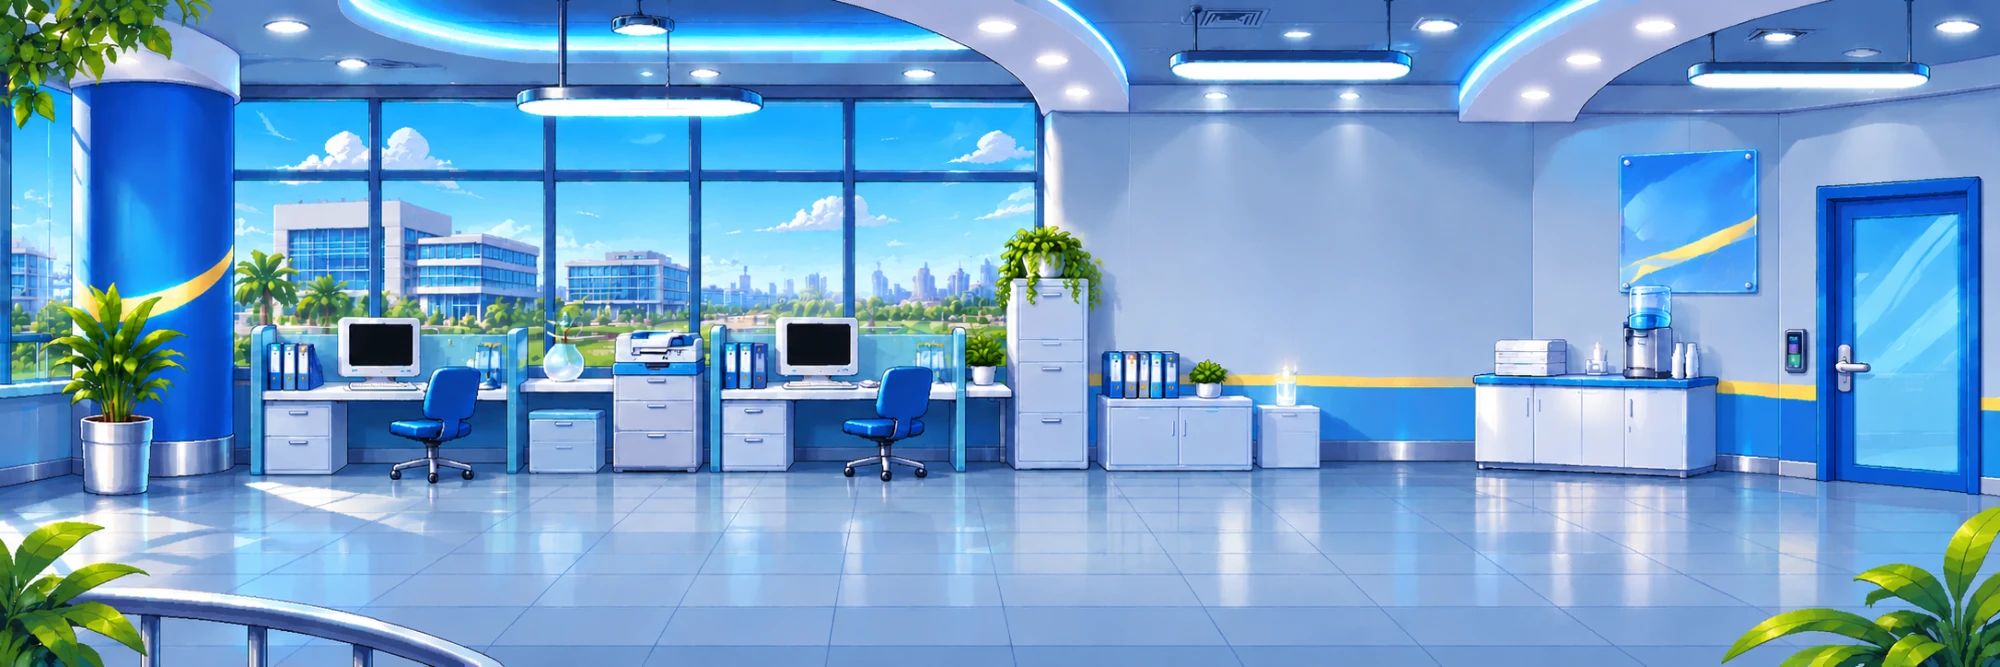
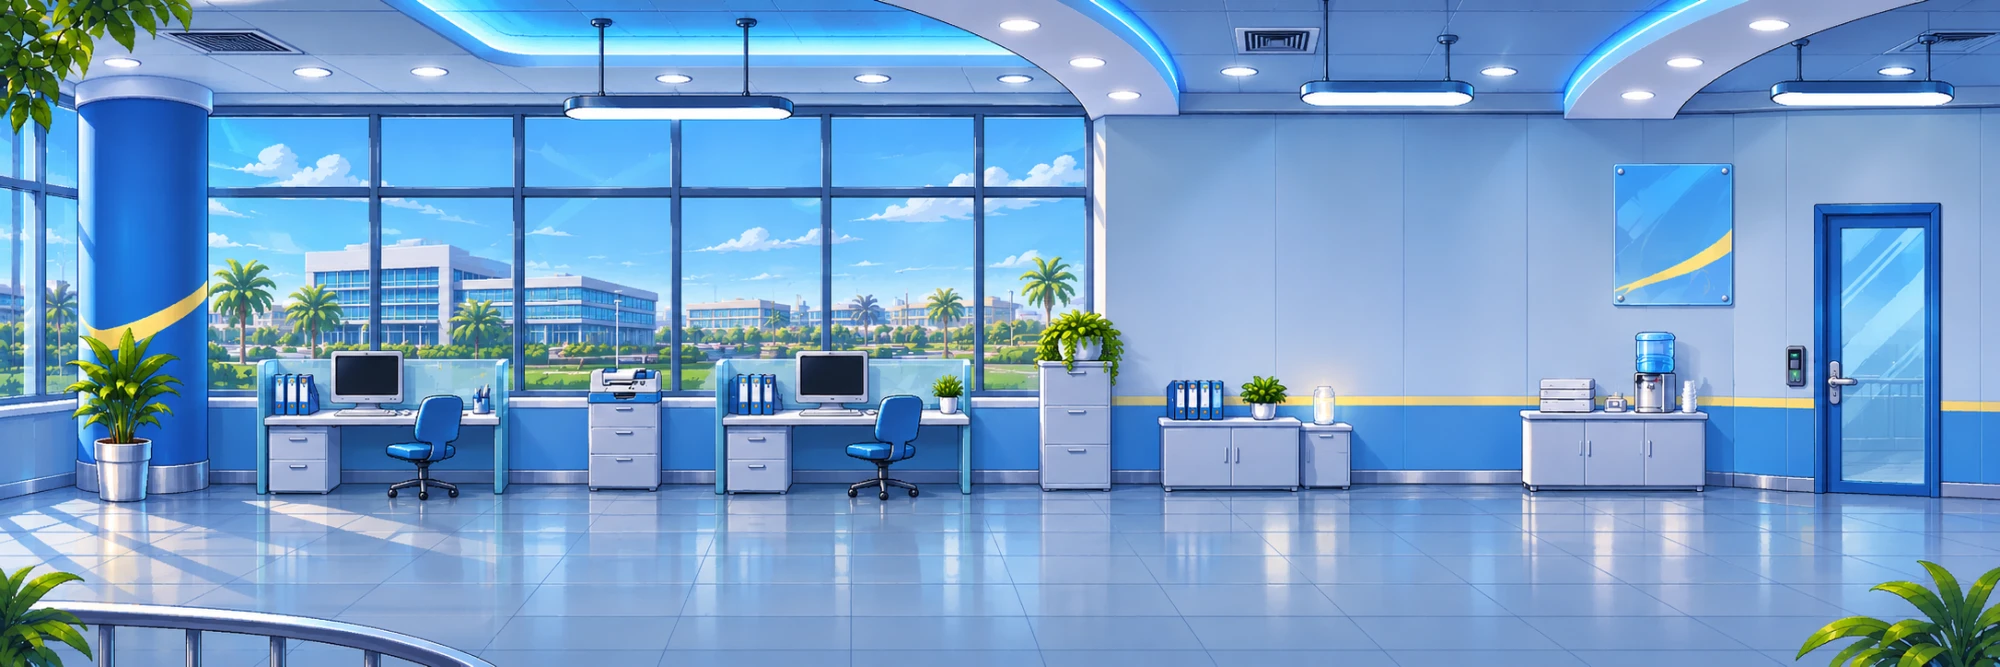
R01 Quality Department: new art at real furniture scale (1560 wide), floor line Y 366, new door reference

diff --git a/src/level.js b/src/level.js
@@ -20,8 +20,8 @@
 //   light: { rim, rimAlpha, rimPx, lightX, lightY, wash, washAlpha, feet } = how Zee and the enemies are lit in this room
 //   (rim / wash are [r,g,b]); the game eases from one room's light to the next (see setLight in assets.js).
 //   doorRight is the door to the NEXT room: while it is locked the player cannot pass it; no door (or unlocked) = open.
-import { CONFIG } from './config.js?v=202611220053';
-import { VERSION } from './assets.js?v=202611220053';
+import { CONFIG } from './config.js?v=202611220059';
+import { VERSION } from './assets.js?v=202611220059';
 
 const C = CONFIG.camera, F = CONFIG.floor;
 export const LAYER_H = 507;                       // layer height in pixels (the view shows 506.25)
@@ -203,17 +203,21 @@ export function tempRoom(id, name, width) {
 }
 
 // R01 Quality Department: final art, a single 2000 x 667 px image (assets/levels/r01_quality_department.webp).
-// It is placed at 0.9 world units per image pixel, so it is exactly 1800 units wide. y puts the image's bottom edge on the
-// bottom of the view (Y 506.25), which puts its floor / wall line (image y ~476) at about Y 334, the top of the feet band.
-// The image has the window view, furniture and the door painted in, so for now it is one layer (no parallax in the windows).
-const R01_SCALE = 0.9, R01_H = 667;
+// SCALE: 0.78 world units per image pixel, so furniture is at real size next to Zee (132 units = 169 image px): desk ~ 60 units,
+// chair back ~ 78, filing cabinet ~ 100. The room is 2000 * 0.78 = 1560 units wide. y puts the image's bottom edge on the bottom of
+// the view (Y 506.25), which crops the top ~18 px (the very top of the ceiling) and puts the wall / floor line (image y ~484)
+// at Y ~364 and the furniture feet (image y ~491) at Y ~369, which is where CONFIG.floor.top (366) comes from.
+// The window view, furniture and the door are painted into this one image, so for now it is one layer (no parallax in the windows).
+// THE DOOR (painted in): frame x 1815-1938, y 204-496 in the image = world x 1416-1512 (96 wide), Y 145-373 (228 tall, 1.7x Zee).
+const R01_SCALE = 0.78, R01_W = 2000, R01_H = 667;
 export function qualityDepartment() {
   return {
-    id: 'R01', name: 'Quality Department', width: 1800, doorRight: { locked: true },
+    id: 'R01', name: 'Quality Department', width: Math.round(R01_W * R01_SCALE), doorRight: { locked: true },
     art: { arch: { src: 'assets/levels/r01_quality_department.webp', scale: R01_SCALE, y: C.viewH - R01_H * R01_SCALE, smooth: true } },
-    // LIGHT (read from the art): a bright, cool white-blue room (floor ~ rgb 142,176,222, walls ~ 148,176,218). Sunlight comes through
-    // the tall windows on the LEFT (top-left, matching how the sprites are shaded), so the rim light is a soft warm white against a
-    // cool blue ambient. The floor is bright and glossy, so legs are shaded less than usual.
-    light: { rim: [255, 242, 208], rimAlpha: 0.6, rimPx: 4, lightX: -1, lightY: -0.5, wash: [96, 150, 235], washAlpha: 0.13, feet: 0.22 },
+    // LIGHT (read from the art): a bright, cool white-blue room (floor ~ rgb 131,165,210, walls ~ 136,173,218, sky ~ 96,173,234).
+    // Sunlight comes through the tall windows on the LEFT (top-left, matching how the sprites are shaded; the bright sun patches are on
+    // the left of the floor), so the rim light is a soft warm white against a cool blue ambient. The floor is bright and glossy, so legs
+    // are shaded less than usual.
+    light: { rim: [255, 242, 208], rimAlpha: 0.6, rimPx: 4, lightX: -1, lightY: -0.5, wash: [92, 148, 232], washAlpha: 0.13, feet: 0.22 },
   };
 }

diff --git a/src/main.js b/src/main.js
@@ -1,14 +1,14 @@
 // Game shell: loads Zee, runs the loop, draws the placeholder office + HUD, wires pause / touch UI / animation viewer.
-import { CONFIG } from './config.js?v=202611220053';
-import { loadCharacter, VERSION, LOOK, setLight } from './assets.js?v=202611220053';
-import { Input } from './input.js?v=202611220053';
-import { Zee } from './zee.js?v=202611220053';
-import { Game } from './game.js?v=202611220053';
-import { ENEMY_IDS } from './enemy.js?v=202611220053';
-import { drawHud as drawArcadeHud } from './hud.js?v=202611220053';
-import { Level, qualityDepartment } from './level.js?v=202611220053';
-import { Camera } from './camera.js?v=202611220053';
-import { unlock } from './sfx.js?v=202611220053';
+import { CONFIG } from './config.js?v=202611220059';
+import { loadCharacter, VERSION, LOOK, setLight } from './assets.js?v=202611220059';
+import { Input } from './input.js?v=202611220059';
+import { Zee } from './zee.js?v=202611220059';
+import { Game } from './game.js?v=202611220059';
+import { ENEMY_IDS } from './enemy.js?v=202611220059';
+import { drawHud as drawArcadeHud } from './hud.js?v=202611220059';
+import { Level, qualityDepartment } from './level.js?v=202611220059';
+import { Camera } from './camera.js?v=202611220059';
+import { unlock } from './sfx.js?v=202611220059';
 
 const { w: W, h: H } = CONFIG.view;
 const canvas = document.getElementById('game');

diff --git a/src/config.js b/src/config.js
@@ -4,8 +4,8 @@ export const CONFIG = {
   // CAMERA: the world is drawn through a zoomed-out camera. zoom = view.w / viewW (about 0.71), so 900 x 506 world units are visible
   // and rendered into the 640 x 360 screen. Characters keep their world size (Zee is ~132 units tall): the camera makes them smaller.
   camera: { viewW: 900, lookAhead: 56, follow: 6 },
-  // WORLD (506 units tall): Y 0-205 upper architecture, Y 205-325 furniture / doors / wall details, Y 325-485 the floor band.
-  floor: { top: 325, bottom: 485 },    // walkable band: the y of the characters' FEET, in world units
+  // WORLD (506 units tall): the wall meets the floor at Y 366 (72% down), the feet band is Y 366-485, the floor runs on to Y 506.
+  floor: { top: 366, bottom: 485 },    // walkable band: the y of the characters' FEET, in world units. top = where the wall meets the floor in the room art (same line in EVERY room); the view is 506 tall
 
   zee: {
     maxHp: 100,

diff --git a/src/enemy.js b/src/enemy.js
@@ -1,9 +1,9 @@
 // Enemy: a fighter with a small brain. It lines up with Zee, flanks, chains combos, sidesteps her swings, punishes her recovery,
 // throws call-centre headsets, and (navy + sporty, the "heavies") grabs and throws her.
 // Art comes from assets/characters/<id>/ ; every enemy shares this one brain.
-import { CONFIG } from './config.js?v=202611220053';
-import { frameAt, drawAnim, silhouette, LOOK } from './assets.js?v=202611220053';
-import { SOFT } from './zee.js?v=202611220053';
+import { CONFIG } from './config.js?v=202611220059';
+import { frameAt, drawAnim, silhouette, LOOK } from './assets.js?v=202611220059';
+import { SOFT } from './zee.js?v=202611220059';
 
 const E = CONFIG.enemy;
 const rnd = (a, b) => a + Math.random() * (b - a);

diff --git a/src/hud.js b/src/hud.js
@@ -1,8 +1,8 @@
 // Arcade HUD (early-2000s style): angled panels with white outlines, glossy bars, bold italic type.
 // Built from separate pieces drawn in game units, so it scales with the canvas at any resolution.
 // Top-left: portrait + HP bar + SP meter. Bottom-left: KO counter. All values come from the live game state.
-import { CONFIG } from './config.js?v=202611220053';
-import { VERSION } from './assets.js?v=202611220053';
+import { CONFIG } from './config.js?v=202611220059';
+import { VERSION } from './assets.js?v=202611220059';
 
 const portrait = new Image();
 portrait.src = 'assets/ui/zee_portrait.png?v=' + VERSION;

diff --git a/src/camera.js b/src/camera.js
@@ -1,7 +1,7 @@
 // The world camera. The world is drawn through a zoomed-out camera (CONFIG.camera.zoom, about 0.71): 900 x 506 world units
 // are visible and rendered into the 640 x 360 screen. The camera follows Zee horizontally (with a little look-ahead in the
 // direction she faces) and is clamped to the level. It never scrolls vertically: the world is exactly one screen tall.
-import { CONFIG } from './config.js?v=202611220053';
+import { CONFIG } from './config.js?v=202611220059';
 
 export class Camera {
   constructor() { this.x = 0; this.px = 0; this.gx = 0; this.look = 0; this.ready = false; }

diff --git a/src/game.js b/src/game.js
@@ -1,8 +1,8 @@
 // Game world: Zee + enemies, combat resolution, projectiles and all the "juice" (hit flash, sparks, shake, hit-stop, sound).
-import { CONFIG } from './config.js?v=202611220053';
-import { Enemy } from './enemy.js?v=202611220053';
-import { SOFT } from './zee.js?v=202611220053';
-import { sfx } from './sfx.js?v=202611220053';
+import { CONFIG } from './config.js?v=202611220059';
+import { Enemy } from './enemy.js?v=202611220059';
+import { SOFT } from './zee.js?v=202611220059';
+import { sfx } from './sfx.js?v=202611220059';
 
 const E = CONFIG.enemy;
 

diff --git a/src/zee.js b/src/zee.js
@@ -1,7 +1,7 @@
 // Zee: the player character. A small state machine driven by input actions.
 // Movement, combat timing, and animation selection live here; art comes from the manifest (assets.js).
-import { CONFIG } from './config.js?v=202611220053';
-import { frameAt, drawAnim, silhouette, LOOK } from './assets.js?v=202611220053';
+import { CONFIG } from './config.js?v=202611220059';
+import { frameAt, drawAnim, silhouette, LOOK } from './assets.js?v=202611220059';
 
 const C = CONFIG.zee;
 const FREE = new Set(['idle', 'walk', 'run', 'makeup']);

diff --git a/src/assets.js b/src/assets.js
@@ -1,6 +1,6 @@
 // Loads a character's manifest + strips and turns them into ready-to-play animation objects.
 // To swap art, replace the PNG strips / manifest in assets/characters/<name>/ - no code changes needed.
-import { CONFIG } from './config.js?v=202611220053';
+import { CONFIG } from './config.js?v=202611220059';
 
 // Release stamp, taken from this module's own URL (?v=...): every release uses new URLs so browsers never serve stale files.
 export const VERSION = new URL(import.meta.url).searchParams.get('v') || 'dev';

diff --git a/index.html b/index.html
@@ -128,7 +128,7 @@
 <div id="rotate"><div><h2>Rotate your phone</h2><p style="color:var(--mute)">This game plays in landscape.</p></div></div>
 <div id="loading"><div><div class="lt">CALL TERMINATED</div><div class="ls">is loading...</div></div></div>
 
-<script type="module" src="src/main.js?v=202611220053"></script>
+<script type="module" src="src/main.js?v=202611220059"></script>
 </body>
 </html>
 

diff --git a/src/input.js b/src/input.js
@@ -1,6 +1,6 @@
 // Unified input: keyboard on PC/laptop, floating joystick + buttons on touch devices.
 // The game only reads: input.axis (x,y in -1..1), input.run, and input.consume() (one-shot actions).
-import { CONFIG } from './config.js?v=202611220053';
+import { CONFIG } from './config.js?v=202611220059';
 
 export class Input {
   constructor(root = document) {

diff --git a/HANDOFF.md b/HANDOFF.md
@@ -52,3 +52,7 @@ After any work, add a dated line under "Decisions and changes" and adjust "Next 
 - 2026-11-22: R01 QUALITY DEPARTMENT ART IN. assets/levels/r01_quality_department.webp (2000x667, painted, single flat image: window view, furniture and the door are painted in, so no parallax inside it yet). Fit: 0.9 world units per image px (room exactly 1800 wide), image bottom on the view bottom (Y 506.25), so the top ~104 px (ceiling) are cropped and the floor/wall line (image y ~476) lands at Y ~334. The layer keeps the image's own density (Level track res = 1/scale = 1.111, canvas 2000x563, no resampling) and uses smoothing (painted art; set smooth:false for crisp pixel art). Room art spec in src/level.js: art.<track> = function | URL | { src, scale, x, y, smooth }. Unused tracks cost nothing. tempRoom() = the old temporary geometry, kept for tests.
   DOOR (painted in, to be covered by the animated sprite): frame x 1816-1982, y 178-493 in the image = world x 1634-1782 (149 wide), Y 66-350 (284 tall; Zee is 132, so the door is 2.15x her height). Card reader just left of it (image x ~1785-1805, y 330-372). sprites/levels/r01_door_reference.png = 3x crop sent to ChatGPT as the reference. Door states plan: frame 1 closed ... last frame open; closing = reverse; lock light drawn in code over the card reader.
   LIGHT per room (room.light, eased by setLight in src/assets.js): R01 = rim rgb(255,242,208) alpha 0.6 px 4, light from top-left (lightX -1, lightY -0.5), blue ambient wash rgb(96,150,235) alpha 0.13, feet shade 0.22 (measured: floor ~rgb(142,176,222), walls ~(148,176,218), sky ~(70,175,236); windows are on the LEFT).
+
+- 2026-11-22 (2): R01 ART REPLACED (user redrew it after the scale complaint; this supersedes the numbers in the previous R01 note). Same file path assets/levels/r01_quality_department.webp, 2000x667. NEW FIT: 0.78 world units per image px (furniture now at real size next to Zee: desk ~60, chair back ~78, cabinet ~100), room = 1560 wide, image bottom on the view bottom (crops the top ~18 px). The wall/floor line is at image y ~484 (72.5% down) = world Y ~364, furniture feet at ~369, so CONFIG.floor.top is now 366 (was 325): the feet band is Y 366-485 (119 deep, close to the original prototype's ~100). Keep this SAME wall/floor line (72.5% of the image height) in every room so floor height stays consistent.
+  New door (painted in): frame x 1815-1938, y 204-496 in the image = world x 1416-1512 (96 wide), Y 145-373 (228 tall, 1.7x Zee; still the biggest object). Card reader just left of it. sprites/levels/r01_door_reference.png = 3x crop (468x954) of the door area for ChatGPT.
+  Light unchanged in spirit: rim rgb(255,242,208) a0.6, from the top-left; wash rgb(92,148,232) a0.13; feet shade 0.22 (measured floor ~131,165,210, walls ~136,173,218, sky ~96,173,234).
